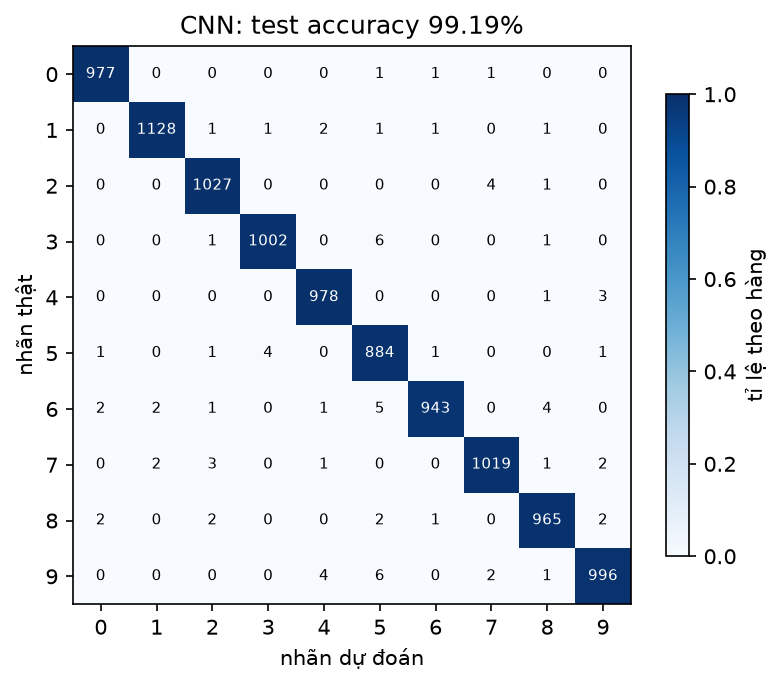
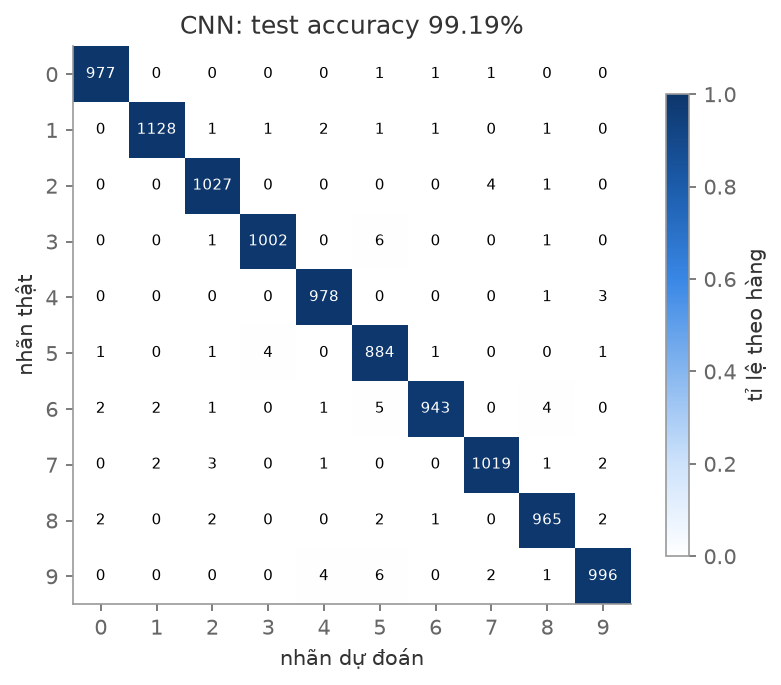
exp: switch figures to a softer colorblind-safe palette

diff --git a/src/plotting.py b/src/plotting.py
@@ -7,19 +7,48 @@ Quy ước:
 - tên mô hình và tên siêu tham số hiển thị theo MODEL_LABELS, PARAM_LABELS (tiếng Việt,
   giữ thuật ngữ quen thuộc như train, validation, accuracy);
 - accuracy hiển thị theo phần trăm; điểm được chọn theo validation đánh dấu bằng ngôi sao.
+
+Bảng màu đã kiểm tra bằng mô phỏng mù màu đỏ/lục (OKLab ΔE, Machado 2009): các màu đứng cạnh
+nhau trong hình so sánh mô hình, và cặp MLP/CNN (vẽ chung trong learning curve), đều tách
+biệt cả với người mù màu (ΔE >= 8) lẫn người nhìn bình thường (ΔE >= 15).
 """
 
 import os
 
 import matplotlib.pyplot as plt
 import numpy as np
+from matplotlib.colors import LinearSegmentedColormap
 from matplotlib.ticker import PercentFormatter
 
 FIGURES_DIR = "results/figures"
 FIGSIZE = (6, 4)
 DPI = 150
-TRAIN_COLOR = "tab:blue"
-VAL_COLOR = "tab:orange"
+TRAIN_COLOR = "#2a78d6"  # xanh dương
+VAL_COLOR = "#eb6834"  # cam
+INK = "#333333"  # màu chữ: xám đậm, đỡ gắt hơn đen tuyền
+# Thang một tông xanh, trắng -> xanh đậm, cho ma trận nhầm lẫn
+SEQUENTIAL_CMAP = LinearSegmentedColormap.from_list(
+    "blue_ramp", ["#ffffff", "#cde2fb", "#86b6ef", "#3987e5", "#1c5cab", "#0d366b"]
+)
+
+plt.rcParams.update(
+    {
+        "axes.axisbelow": True,
+        "axes.spines.top": False,
+        "axes.spines.right": False,
+        "axes.edgecolor": "#999999",
+        "axes.labelcolor": INK,
+        "axes.titlecolor": INK,
+        "xtick.color": "#666666",
+        "ytick.color": "#666666",
+        "text.color": INK,
+        "grid.color": "#e6e6e6",
+        "grid.linewidth": 0.8,
+        "lines.linewidth": 2,
+        "lines.markersize": 5,
+        "legend.frameon": False,
+    }
+)
 
 MODEL_LABELS = {
     "naive_bayes": "Gaussian NB",
@@ -29,13 +58,14 @@ MODEL_LABELS = {
     "random_forest": "Random Forest",
     "cnn": "CNN",
 }
+# Thứ tự khoá = thứ tự thanh trong hình so sánh; đổi thứ tự thì phải kiểm tra lại màu.
 MODEL_COLORS = {
-    "naive_bayes": "tab:gray",
-    "bernoulli_naive_bayes": "tab:brown",
-    "logistic_regression": "tab:green",
-    "mlp": "tab:blue",
-    "random_forest": "tab:purple",
-    "cnn": "tab:red",
+    "naive_bayes": "#6250d6",  # tím
+    "bernoulli_naive_bayes": "#e87ba4",  # hồng
+    "logistic_regression": "#008300",  # xanh lá
+    "mlp": "#2a78d6",  # xanh dương
+    "random_forest": "#1baf7a",  # xanh ngọc
+    "cnn": "#eb6834",  # cam
 }
 PARAM_LABELS = {
     "var_smoothing": "var_smoothing",
@@ -96,7 +126,7 @@ def plot_sweep(df, model_name, param_name, filename):
         fontsize=11,
     )
     ax.legend(fontsize=9)
-    ax.grid(alpha=0.3)
+    ax.grid()
     return save_figure(fig, filename)
 
 
@@ -107,7 +137,7 @@ def plot_confusion(cm, model_name, filename):
     accuracy = np.trace(cm) / cm.sum()
 
     fig, ax = plt.subplots(figsize=(6, 5))
-    shown = ax.imshow(rates, cmap="Blues", vmin=0, vmax=1)
+    shown = ax.imshow(rates, cmap=SEQUENTIAL_CMAP, vmin=0, vmax=1)
     for i in range(cm.shape[0]):
         for j in range(cm.shape[1]):
             color = "white" if rates[i, j] > 0.5 else "black"
@@ -133,7 +163,13 @@ def plot_model_comparison(test_df, filename):
     y = np.arange(len(names))
 
     fig, (ax_acc, ax_time) = plt.subplots(1, 2, figsize=(12, 0.6 * len(names) + 1.5), sharey=True)
-    ax_acc.barh(y, test_df["accuracy_mean"], xerr=test_df["accuracy_std"].fillna(0), color=colors)
+    ax_acc.barh(
+        y,
+        test_df["accuracy_mean"],
+        xerr=test_df["accuracy_std"].fillna(0),
+        color=colors,
+        ecolor=INK,
+    )
     for i, value in enumerate(test_df["accuracy_mean"]):
         ax_acc.text(value + 0.003, i, f"{value:.2%}", va="center", fontsize=9)
     ax_acc.set_xlim(test_df["accuracy_mean"].min() - 0.05, 1.03)
@@ -150,6 +186,6 @@ def plot_model_comparison(test_df, filename):
     ax_acc.set_yticks(y, labels)
     ax_acc.invert_yaxis()  # mô hình đầu bảng nằm trên cùng
     for ax in (ax_acc, ax_time):
-        ax.grid(axis="x", alpha=0.3)
+        ax.grid(axis="x")
     fig.suptitle("So sánh các mô hình trên tập test")
     return save_figure(fig, filename)
